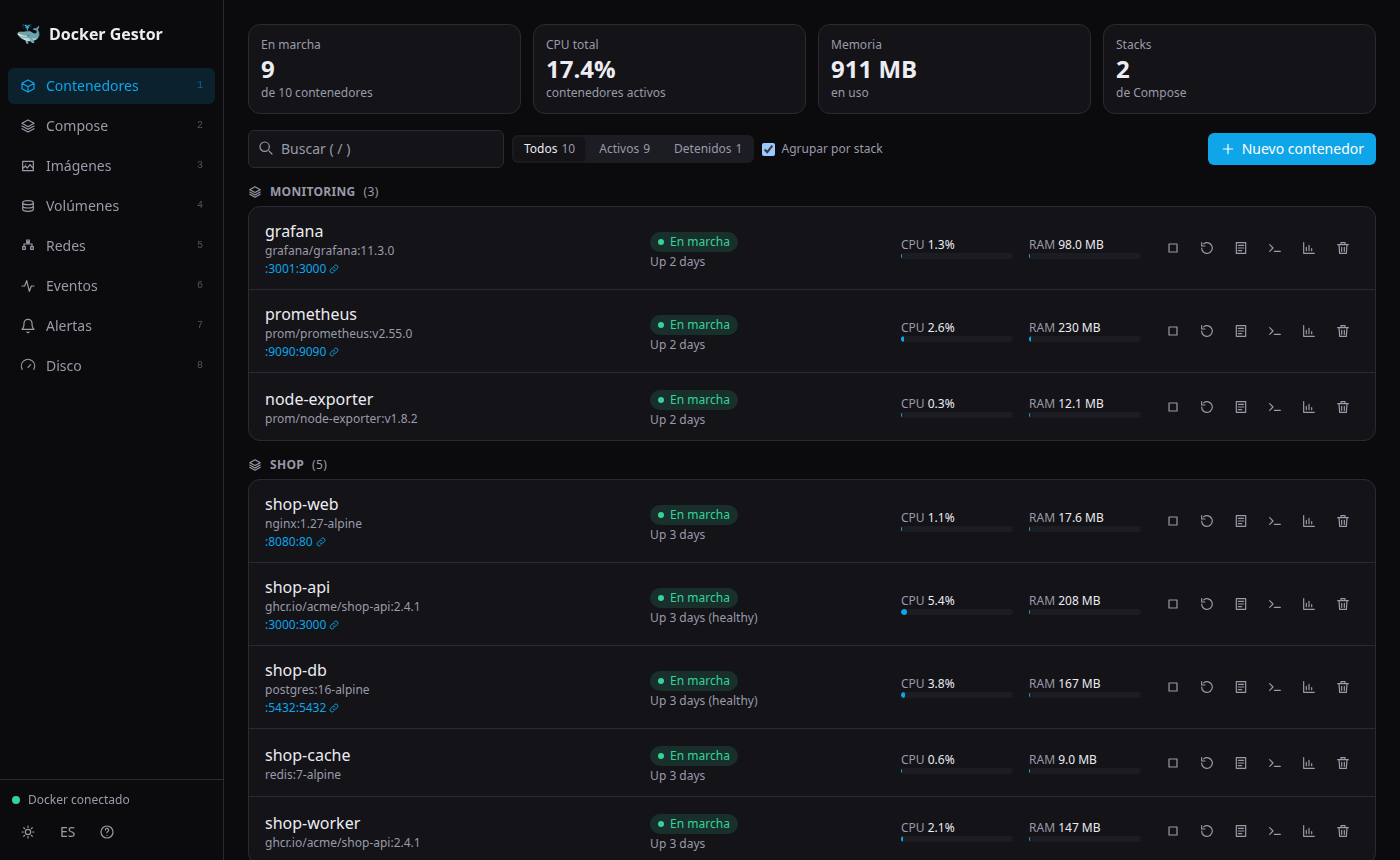
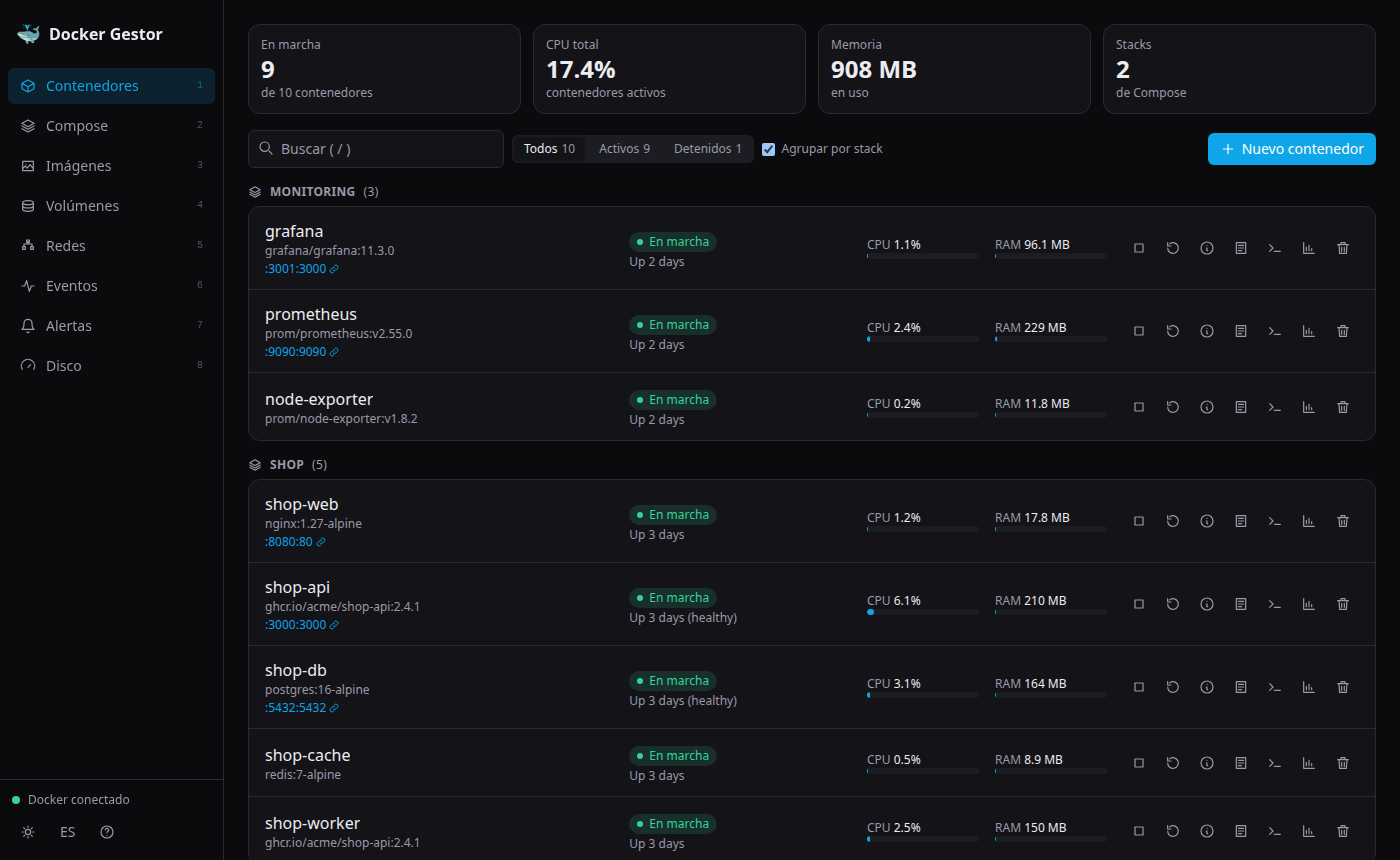
Document container details and refresh screenshots
- Container details section in the English and Spanish guides, README and
  changelog, including how secrets are handled.
- Add Details screenshots (secrets hidden) and a details beat in the GIF.

diff --git a/docs/GUIDE.md b/docs/GUIDE.md
@@ -143,6 +143,24 @@ An interactive shell inside the container (`bash` if present, otherwise `sh`), w
 
 CPU (%) and memory over **1 h**, **24 h** or **7 days**. Hover (or touch) the chart to read the exact value and time. Right after the service or the container starts you will see “Not enough data yet”: one sample is taken every 15 s.
 
+### Container details
+
+Click a container's name, or the ⓘ button, to open its details. It replaces having to run `docker inspect` by hand:
+
+| Tab | What it shows |
+|---|---|
+| **Overview** | State, **why it stopped** (exit code explained: `137` = killed, `143` = stopped, `1` = application error…, plus the *out of memory* flag), restart count and policy, image, command, user, limits and **notable settings** |
+| **Environment** | Variables, searchable. Sensitive-looking values are **hidden**; press **Show** to fetch one, **Copy** to copy it |
+| **Mounts** | Host folders and volumes, with their path and read-only / read-write mode |
+| **Network** | Published ports (clickable), ports that are exposed but not published, and each network with its IP, gateway and aliases |
+| **Health** | Health status, consecutive failures and the latest checks with their output |
+| **Labels** | All labels (Compose project, image metadata…) |
+| **Raw** | The complete `docker inspect` JSON, with sensitive values hidden |
+
+**Notable settings** calls out things worth knowing about a container: *privileged* mode, the **Docker socket** mounted (root-equivalent control of the machine), the host's **root filesystem** mounted, the host's **network** or **process** namespace, and extra Linux **capabilities**.
+
+**How secrets are handled:** the server never sends the value of a sensitive-looking variable (or of a secret-looking command argument) unless you press **Show** on that single variable; that request is not cacheable. The detection is a best-effort heuristic on the **name** (`*PASSWORD*`, `*TOKEN*`, `*KEY*`, `*SECRET*`…), on **credentials inside URLs** (`postgres://user:pass@host`) and on **how the value looks** (JWTs, well-known token prefixes, long key-like strings). It errs on the side of hiding too much: a false positive only costs a click, but it is not a security boundary against someone who already controls Docker.
+
 ### Create a container
 
 **New container** button (or key `n`):
@@ -377,6 +395,7 @@ Controlling Docker is equivalent to having admin rights on the machine. Therefor
 - Ports of containers created from the panel are published on `127.0.0.1` only.
 - Names, ports, variables, volumes and images are validated server-side.
 - Compose only acts on stacks Docker already knows.
+- Container details never include sensitive-looking variable values unless you press *Show* on that variable.
 - Alerts make outbound requests only to the Telegram API and to the webhook URL you configure; their secrets live in a `600` file and are never returned to the browser.
 - **There is no authentication**: any process or user able to reach `localhost:<port>` on your machine can use the panel.
 
@@ -400,6 +419,7 @@ Controlling Docker is equivalent to having admin rights on the machine. Therefor
 | An alert fires for something I did | Only stops/restarts/removals are recognised as intentional; a `docker kill` is treated as a crash |
 | The Disk section is slow the first time | Docker computes sizes on demand; it can take several seconds with many images or volumes. Results are cached for 15 s |
 | Something could not be cleaned | It is in use: the list shows Docker's reason. Stop and remove the container that uses it first |
+| A variable is hidden but is not a secret | The detection is deliberately cautious (any name containing `key`, `token`, `pass`…): press *Show* to see it |
 | Does not start at boot | Missing linger: `sudo loginctl enable-linger $USER` |
 | Service restarts itself | May have hit the 256 MB memory limit: check `journalctl --user -u docker-gestor` |
 
@@ -431,6 +451,7 @@ src/lib/socket.mjs            Docker endpoint detection (Linux / macOS / Windows
 src/lib/history.ts            Sampling and SQLite queries
 src/lib/alerts-core.mjs       Alert rules and config validation (pure, unit-tested)
 src/lib/alerts.ts             Alert I/O: Docker watcher, Telegram, webhook, storage
+src/lib/inspect-core.mjs       Container details shaping and secret masking (pure, unit-tested)
 src/lib/disk-core.mjs         Disk usage analysis and cleanup validation (pure, unit-tested)
 src/lib/disk.ts               Disk report and per-item cleanup
 src/app/page.tsx              The UI (sections)
@@ -447,6 +468,8 @@ src/app/api/**                REST API and SSE streams
 | `/containers` | GET, POST | List / create and start |
 | `/containers/:id/:action` | POST | `start`, `stop`, `restart`, `remove` |
 | `/containers/:id/logs` | GET (SSE) | Live logs |
+| `/containers/:id/inspect` | GET | Container details; sensitive-looking values are omitted |
+| `/containers/:id/env?name=` | GET | The real value of ONE environment variable (explicit "show"; not cacheable) |
 | `/stats` | GET | CPU/RAM of running containers |
 | `/history?name=&range=` | GET | History series (`1h`, `24h`, `7d`) |
 | `/events` | GET (SSE) | Docker events |
@@ -469,7 +492,7 @@ Connection errors answer `503` with a `code` (`docker_unreachable`, `docker_deni
 ```bash
 systemctl --user stop docker-gestor     # frees port 4455
 npm run dev                             # hot reload
-npm run typecheck && npm test && npm run smoke && npm run e2e:alerts && npm run e2e:disk
+npm run typecheck && npm test && npm run smoke && npm run e2e:alerts && npm run e2e:disk && npm run e2e:detail
 ```
 
 No Docker at hand? Run the fake API: `node scripts/demo/mock-docker.mjs /tmp/docker-mock.sock &` then `DOCKER_SOCKET=/tmp/docker-mock.sock npm run dev`.

diff --git a/docs/GUIA.md b/docs/GUIA.md
@@ -150,6 +150,24 @@ Abre una shell interactiva dentro del contenedor (`bash` si existe, si no `sh`),
 
 Muestra CPU (%) y memoria con rangos de **1 h**, **24 h** y **7 días**. Pasa el ratón (o el dedo) sobre la gráfica para ver el valor exacto y la hora de cada punto. Si acabas de arrancar el servicio o el contenedor, verás «Aún no hay suficientes datos»: se toma una muestra cada 15 s.
 
+### Detalles del contenedor
+
+Haz clic en el nombre de un contenedor, o en el botón ⓘ, para abrir sus detalles. Sustituye a ejecutar `docker inspect` a mano:
+
+| Pestaña | Qué muestra |
+|---|---|
+| **Resumen** | Estado, **por qué se detuvo** (código de salida explicado: `137` = detenido a la fuerza, `143` = parada normal, `1` = error de la aplicación…, más el indicador de *sin memoria*), reinicios y política, imagen, comando, usuario, límites y **ajustes a tener en cuenta** |
+| **Variables** | Variables, con buscador. Los valores que parecen sensibles están **ocultos**; pulsa **Mostrar** para pedir uno y **Copiar** para copiarlo |
+| **Montajes** | Carpetas del equipo y volúmenes, con su ruta y el modo solo lectura / lectura y escritura |
+| **Red** | Puertos publicados (con enlace), puertos expuestos pero no publicados, y cada red con su IP, puerta de enlace y alias |
+| **Salud** | Estado de salud, fallos seguidos y las últimas comprobaciones con su salida |
+| **Etiquetas** | Todas las etiquetas (proyecto de Compose, metadatos de la imagen…) |
+| **JSON** | El `docker inspect` completo, con los valores sensibles ocultos |
+
+Los **ajustes a tener en cuenta** señalan lo que conviene saber de un contenedor: el modo *privilegiado*, el **socket de Docker** montado (control equivalente a root sobre el equipo), el **sistema de archivos raíz** del equipo montado, el espacio de **red** o de **procesos** del equipo y las **capacidades** de Linux extra.
+
+**Cómo se tratan los secretos:** el servidor nunca envía el valor de una variable que parezca sensible (ni de un argumento de comando que lo parezca) salvo que pulses **Mostrar** en esa variable concreta; esa petición no se guarda en caché. La detección es una heurística aproximada sobre el **nombre** (`*PASSWORD*`, `*TOKEN*`, `*KEY*`, `*SECRET*`…), sobre las **credenciales dentro de una URL** (`postgres://usuario:clave@host`) y sobre el **aspecto del valor** (JWT, prefijos conocidos de tokens, cadenas largas tipo clave). Prefiere ocultar de más: un falso positivo solo cuesta un clic, pero no es una barrera de seguridad frente a quien ya controla Docker.
+
 ### Crear un contenedor
 
 Botón **+ Nuevo contenedor** (o tecla `n`):
@@ -408,6 +426,7 @@ Controlar Docker equivale a tener acceso de administrador a la máquina. Por eso
 - Los puertos de los contenedores creados desde el panel se publican solo en `127.0.0.1`.
 - Todas las entradas (nombres, puertos, variables, volúmenes, imágenes) se validan en el servidor.
 - Compose solo actúa sobre stacks que Docker ya conoce.
+- Los detalles del contenedor nunca incluyen el valor de variables que parezcan sensibles salvo que pulses *Mostrar* en esa variable.
 - Las alertas solo hacen peticiones salientes a la API de Telegram y a la URL de webhook que configures; sus secretos viven en un archivo `600` y nunca se devuelven al navegador.
 - **No hay autenticación**: cualquier proceso o usuario con acceso a `localhost:4455` en tu máquina puede usar el panel.
 
@@ -431,6 +450,7 @@ Controlar Docker equivale a tener acceso de administrador a la máquina. Por eso
 | Salta una alerta por algo que hice yo | Solo se reconocen como intencionados los stop, restart y eliminaciones; un `docker kill` cuenta como caída |
 | La sección Disco tarda la primera vez | Docker calcula los tamaños bajo demanda; con muchas imágenes o volúmenes pueden ser varios segundos. El resultado se guarda 15 s |
 | Algo no se pudo limpiar | Está en uso: la lista muestra el motivo de Docker. Detén y elimina antes el contenedor que lo usa |
+| Una variable aparece oculta pero no es un secreto | La detección es deliberadamente prudente (cualquier nombre con `key`, `token`, `pass`…): pulsa *Mostrar* para verla |
 | No arranca al encender el equipo | Falta el *linger*: `sudo loginctl enable-linger $USER` |
 | El servicio se reinicia solo | Puede haber llegado al límite de memoria (256 MB): mira `journalctl --user -u docker-gestor` |
 
@@ -459,6 +479,7 @@ src/lib/docker.ts             Cliente de Docker, validación de Host/Origin, uti
 src/lib/history.ts            Muestreo y consultas SQLite
 src/lib/alerts-core.mjs       Reglas de alertas y validación (puro, con pruebas)
 src/lib/alerts.ts             E/S de alertas: vigilancia de Docker, Telegram, webhook, almacenamiento
+src/lib/inspect-core.mjs       Detalles del contenedor y enmascarado de secretos (puro, con pruebas)
 src/lib/disk-core.mjs         Análisis de uso de disco y validación de limpieza (puro, con pruebas)
 src/lib/disk.ts               Informe de disco y limpieza elemento a elemento
 src/app/page.tsx              Interfaz (secciones)
@@ -476,6 +497,8 @@ src/app/api/**                API REST y flujos SSE
 | `/containers` | GET, POST | Listar / crear e iniciar |
 | `/containers/:id/:action` | POST | `start`, `stop`, `restart`, `remove` |
 | `/containers/:id/logs` | GET (SSE) | Logs en vivo |
+| `/containers/:id/inspect` | GET | Detalles del contenedor; se omiten los valores que parecen sensibles |
+| `/containers/:id/env?name=` | GET | El valor real de UNA variable de entorno (acción explícita «Mostrar»; no se guarda en caché) |
 | `/stats` | GET | CPU/RAM de los contenedores en marcha |
 | `/history?name=&range=` | GET | Serie del historial (`1h`, `24h`, `7d`) |
 | `/events` | GET (SSE) | Eventos de Docker |

diff --git a/README.md b/README.md
@@ -36,6 +36,7 @@ It is **not** a replacement for the bigger tools. Use something else if you need
 - **Compose** — `up`, `restart`, `stop`, `pull` and `down` for the stacks Docker already knows about.
 - **Images, volumes, networks** — browse, create/pull, remove; images show whether they are in use.
 - **Events** — live Docker event stream (it also keeps the UI in sync without polling).
+- **Container details** — an `inspect` you can read: why it stopped (exit code explained, OOM, restarts), environment, mounts, ports, networks, health history and notable settings (privileged, Docker socket mounted…). Secret-looking values are never sent unless you press *Show*.
 - **Disk usage & safe cleanup** — see where Docker's space goes and free it with a preview: unused build cache, untagged images, stopped containers, unused images and volumes. Nothing is deleted until you confirm, items are removed one by one without `force`, and volumes need an explicit acknowledgement.
 - **Alerts** — get told (browser, **Telegram**, **webhook**) when a container crashes, runs out of memory, turns unhealthy, restarts in a loop or stays at high CPU/RAM. Ignores stops you do yourself; off by default, no measurable cost.
 - **Usage history** — CPU/RAM sampled into SQLite and charted over 1 h / 24 h / 7 days; survives restarts.
@@ -50,7 +51,8 @@ It is **not** a replacement for the bigger tools. Use something else if you need
 | ![Live logs](docs/img/logs.png) **Live logs** | ![Usage chart](docs/img/chart.png) **Usage history** |
 | ![Create container](docs/img/create.png) **Create a container** | ![Compose](docs/img/compose.png) **Compose stacks** |
 | ![Events](docs/img/events.png) **Live events** | ![Alerts](docs/img/alerts.png) **Alerts** (Telegram, webhook, browser) |
-| ![Disk usage](docs/img/disk.png) **Disk usage and safe cleanup** | ![Images](docs/img/images.png) **Images** |
+| ![Disk usage](docs/img/disk.png) **Disk usage and safe cleanup** | ![Container details](docs/img/detail.png) **Container details** |
+| ![Environment, secrets hidden](docs/img/detail-env.png) **Secrets stay hidden until you ask** | ![Images](docs/img/images.png) **Images** |
 | ![Spanish UI](docs/img/containers-es.png) **Spanish UI** | |
 
 <p align="center"><img src="docs/img/mobile.png" alt="Mobile layout" width="260"></p>
@@ -150,6 +152,7 @@ npm run build
 npm run smoke        # boots the built server without Docker and checks it
 npm run e2e:alerts   # alerts end-to-end against a fake Docker, Telegram and webhook
 npm run e2e:disk     # disk cleanup end-to-end (incl. refusing to delete things in use)
+npm run e2e:detail   # container details end-to-end (secrets must never leak)
 ```
 
 Stack: Next.js (App Router) · React · Tailwind CSS 4 · dockerode · `node:sqlite` · ws · xterm.js. UI strings live in `src/app/locales/` (adding a language is one file).
@@ -166,7 +169,7 @@ Issues and pull requests are welcome — read [CONTRIBUTING.md](CONTRIBUTING.md)
 
 # 🇪🇸 Español
 
-Panel web local y ligero para gestionar Docker desde el navegador: contenedores, logs en vivo, terminal interactiva, Compose, imágenes, volúmenes, redes, eventos alertas (Telegram, webhook y navegador), limpieza segura de disco y gráficas de consumo con historial. En reposo usa **~0,2–0,5 % de un núcleo y ~55 MB de RAM**. La interfaz está en **español e inglés** (selector en la barra lateral).
+Panel web local y ligero para gestionar Docker desde el navegador: contenedores, logs en vivo, terminal interactiva, Compose, imágenes, volúmenes, redes, eventos alertas (Telegram, webhook y navegador), limpieza segura de disco, detalle de contenedor (con secretos ocultos) y gráficas de consumo con historial. En reposo usa **~0,2–0,5 % de un núcleo y ~55 MB de RAM**. La interfaz está en **español e inglés** (selector en la barra lateral).
 
 **Pensado para una persona y una máquina:** sin servidor de base de datos, sin agente y sin cuentas; solo escucha en `127.0.0.1` y no hace trabajo mientras nadie mira la página. Si necesitas varios usuarios, varios hosts o Kubernetes, usa una herramienta más grande (Portainer y similares).
 

diff --git a/CHANGELOG.md b/CHANGELOG.md
@@ -5,6 +5,9 @@ All notable changes to this project are documented here. The format follows [Kee
 ## [Unreleased]
 
 ### Added
+- **Container details** (click a name or the ⓘ button): overview with why it stopped (exit code explained, OOM, restart count), environment, mounts, ports, networks, health history, labels and the full `inspect`, plus **notable settings** (privileged, Docker socket or host root mounted, host network/PID, extra capabilities).
+- Secret-looking environment values and command arguments are **never sent** unless you press *Show* on one variable. Detection covers names (including any `*KEY*`), credentials inside URLs and the look of the value (JWTs, token prefixes, long key-like strings). A check against a real Docker found `*_KEY` variables that an earlier rule missed; the rule was widened and re-verified (0 leaks across 276 variables).
+- `npm run e2e:detail`, a negative-control-tested end-to-end check that no secret leaks (runs in CI on Linux).
 - **Disk** section: how much space Docker uses (images, containers, volumes, build cache) and how much is reclaimable, with figures that match `docker system df`.
 - **Safe cleanup** with a preview: unused build cache, untagged images, stopped containers, unused tagged images and unused volumes. Only the build cache and untagged images are pre-selected; volumes need an explicit data-loss acknowledgement.
 - Items are removed one by one by id (never a global prune) and without `force`; Docker Gestor also refuses running containers itself, and failures are listed with Docker's reason.
